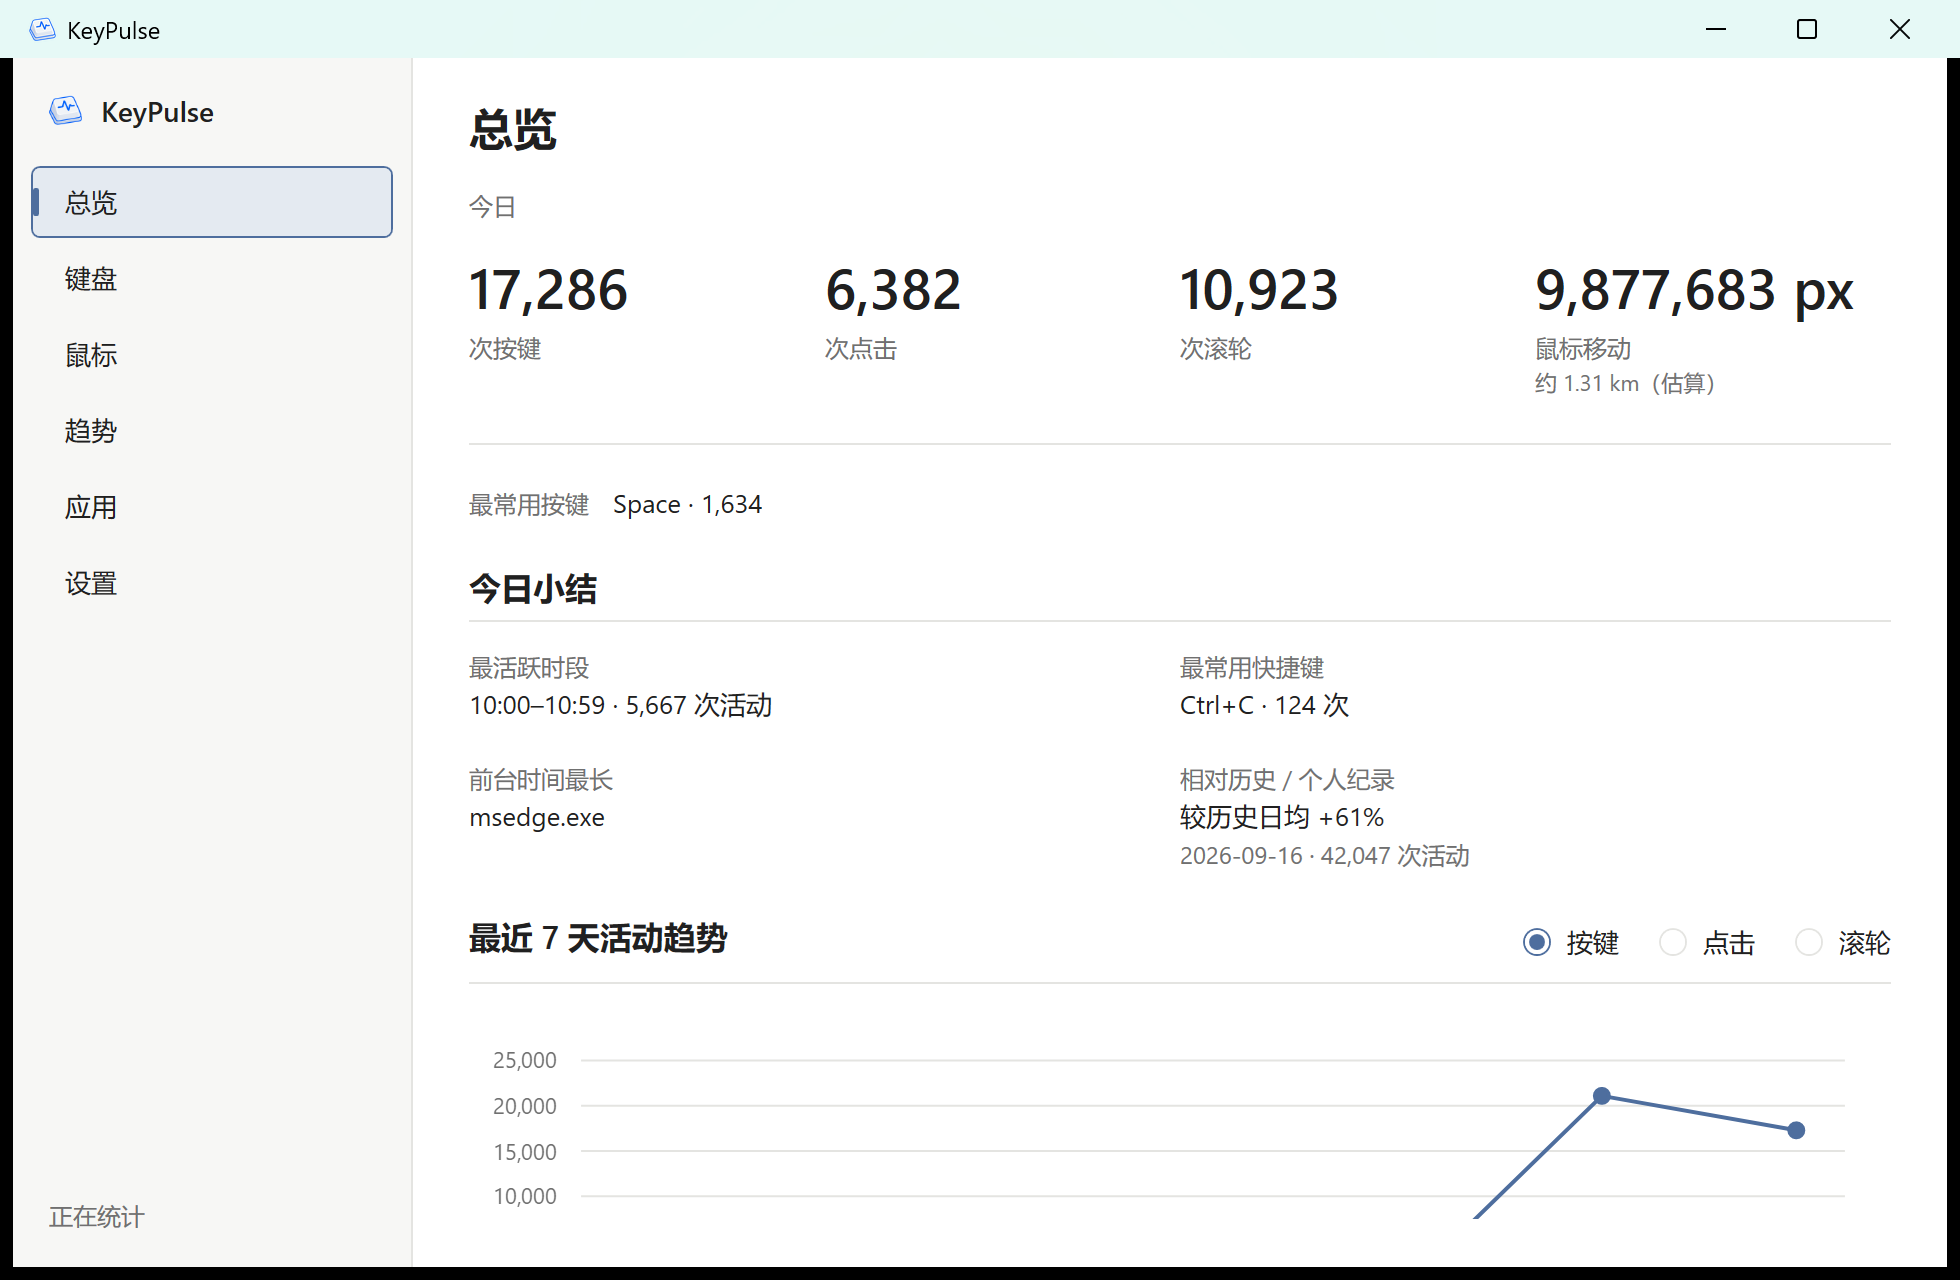
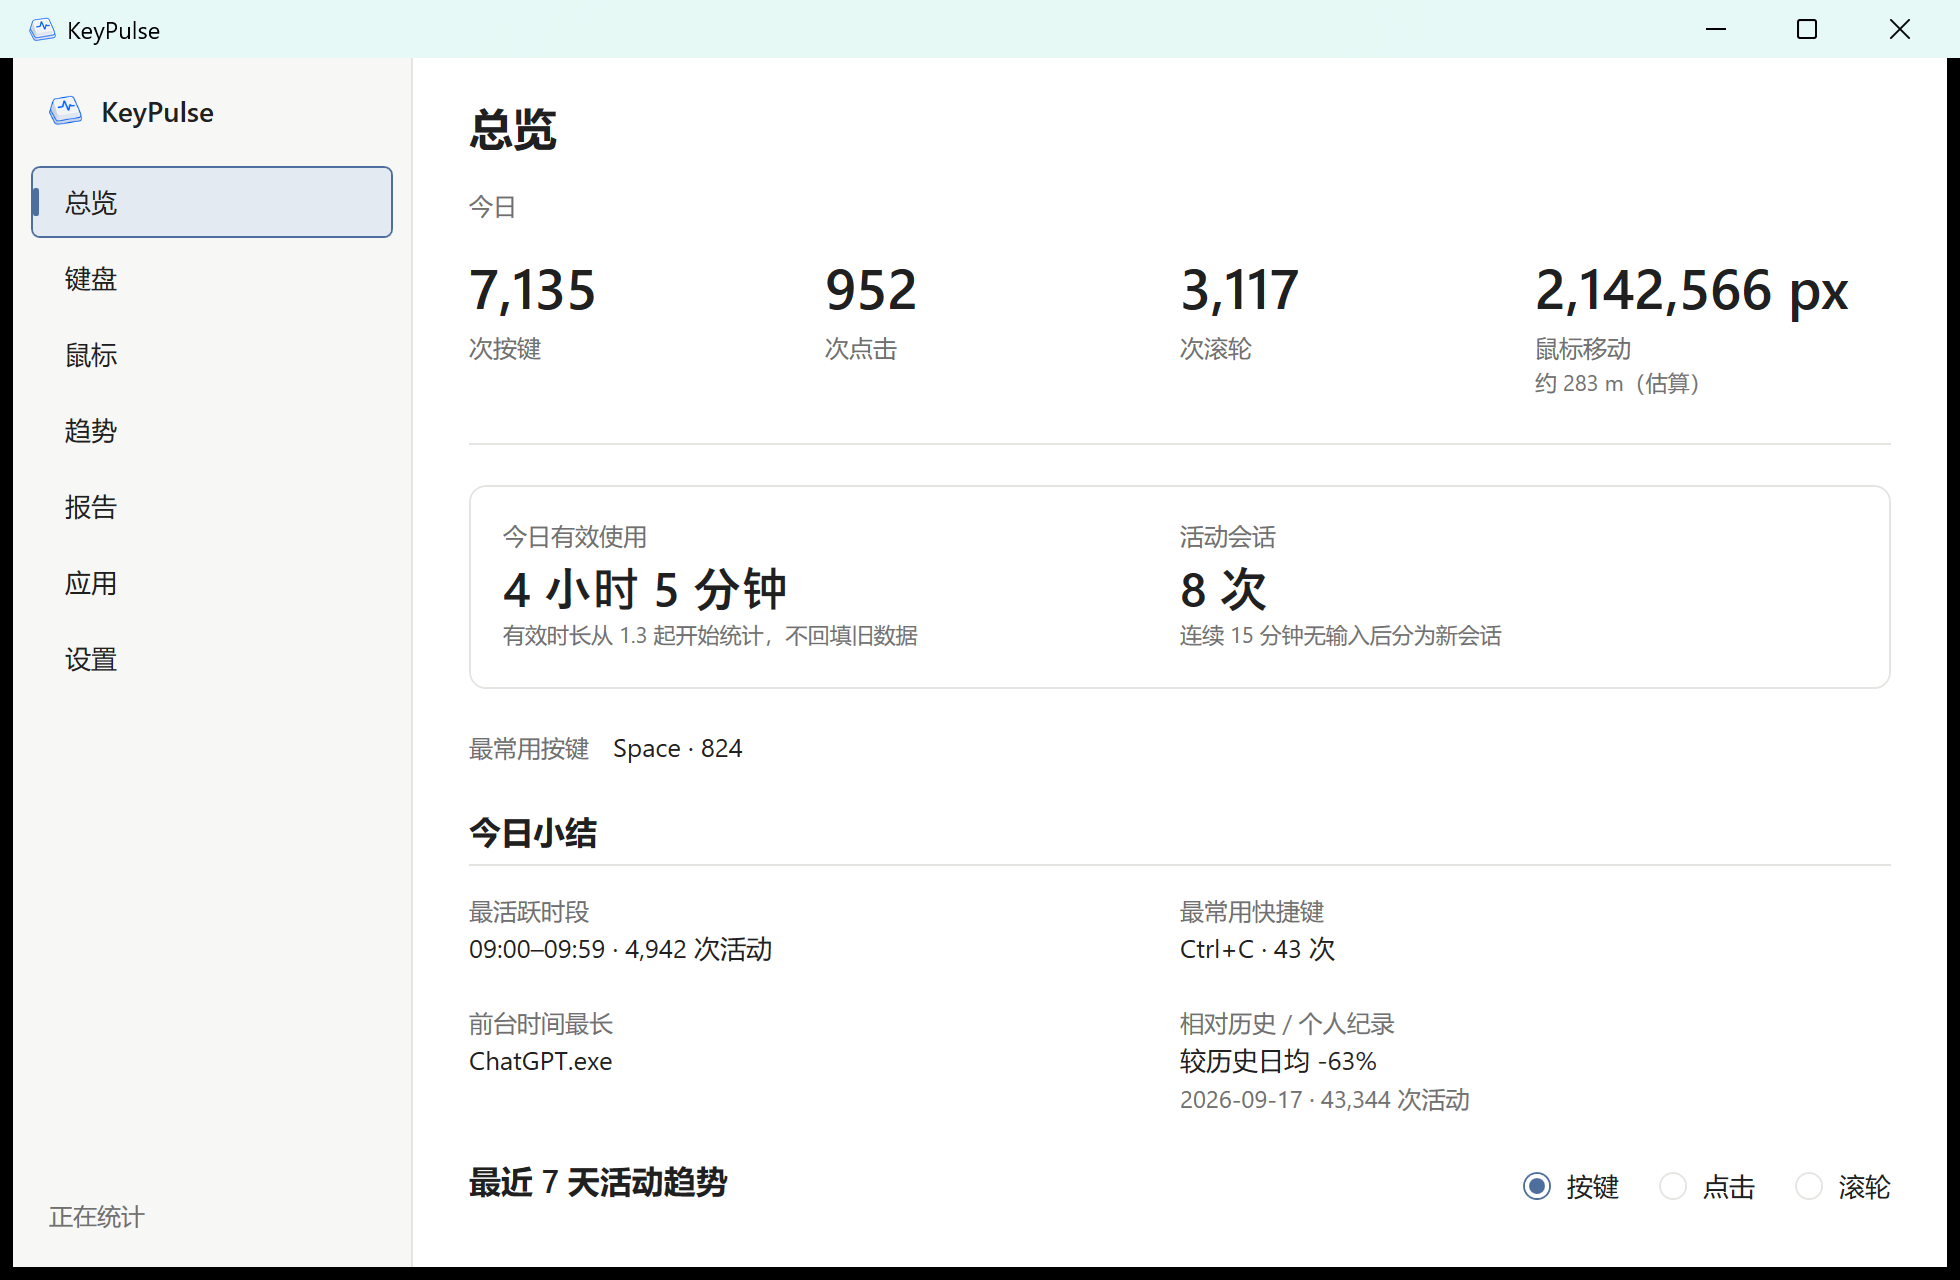
docs: refresh 1.3 screenshots

diff --git a/README.md b/README.md
@@ -6,7 +6,8 @@
 
 KeyPulse 是一款面向 Windows 的本地键盘与鼠标使用统计工具。它在后台聚合按键次数、
 快捷键、鼠标点击、滚轮、真实屏幕像素移动距离、趋势和应用维度统计，并通过简洁的
-WPF 界面展示结果。
+WPF 界面展示结果。1.3 进一步加入按 AFK 判定的有效使用时长、活动会话、周报/月报、
+长期变化，以及可使用本地图片的屏幕活动揭示；所有统计与图片资源仍只保存在本机。
 
 ## 界面预览
 
@@ -17,22 +18,32 @@ WPF 界面展示结果。
 <table>
   <tr>
     <td width="50%" align="center">
-      <img src="assets/screenshots/keyboard-heatmap.png" alt="键盘按键热力图" /><br />
-      <sub>键盘按键热力图</sub>
+      <img src="assets/screenshots/mouse-heatmaps.png" alt="鼠标点击、轨迹与图片揭示" /><br />
+      <sub>点击、轨迹与灰色磨砂图片揭示</sub>
     </td>
     <td width="50%" align="center">
-      <img src="assets/screenshots/mouse-heatmaps.png" alt="鼠标点击、轨迹与覆盖热力图" /><br />
-      <sub>鼠标点击、轨迹与覆盖热力图</sub>
+      <img src="assets/screenshots/reports.png" alt="KeyPulse 活动报告" /><br />
+      <sub>周报、月报与 PNG / HTML 导出</sub>
     </td>
   </tr>
   <tr>
     <td width="50%" align="center">
-      <img src="assets/screenshots/trends.png" alt="键盘与鼠标趋势页面" /><br />
-      <sub>键盘与鼠标趋势</sub>
+      <img src="assets/screenshots/keyboard-heatmap.png" alt="键盘按键热力图" /><br />
+      <sub>可切换色系的键盘按键热力图</sub>
     </td>
+    <td width="50%" align="center">
+      <img src="assets/screenshots/trends.png" alt="键盘与鼠标趋势页面" /><br />
+      <sub>键盘、点击、滚轮与有效时长趋势</sub>
+    </td>
+  </tr>
+  <tr>
     <td width="50%" align="center">
       <img src="assets/screenshots/app-usage.png" alt="前台应用使用统计" /><br />
       <sub>前台应用使用统计</sub>
+    </td>
+    <td width="50%" align="center">
+      <img src="assets/screenshots/settings.png" alt="KeyPulse 设置页面" /><br />
+      <sub>主题、热力图色系与本地屏幕图片</sub>
     </td>
   </tr>
 </table>
